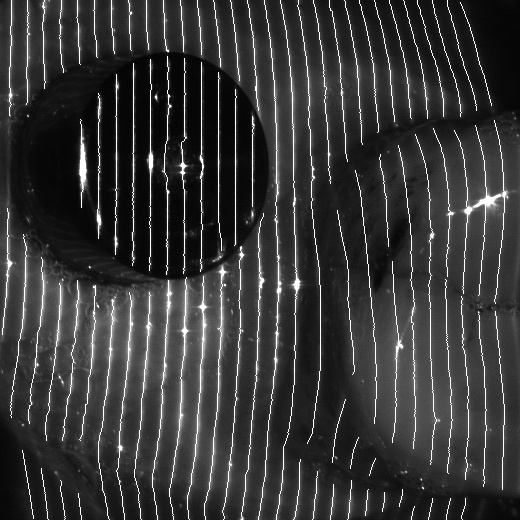
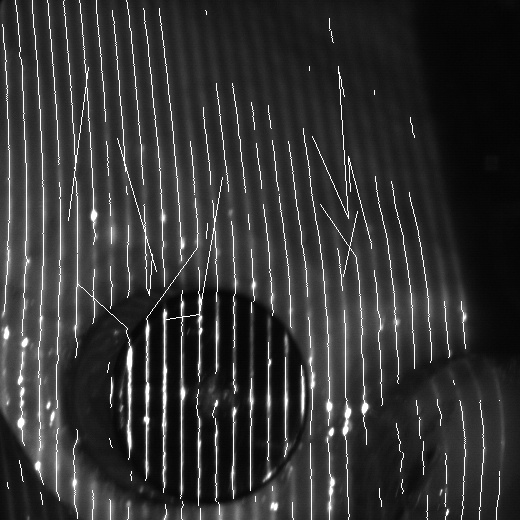
eraser without background

diff --git a/main.py b/main.py
@@ -28,6 +28,7 @@ class Annotator():
     def __init__(self) -> None:
         self.color = (255, 255, 255)  # White color
         self.thickness = 1  # Line thickness
+        self.show_background = True
 
         # List to store lines
         self.actions = []  # Store the actions (line/eraser)
@@ -267,15 +268,15 @@ if __name__=="__main__":
 
     def handle_eraser_mode(event, x, y, flags, param):
         global points, image, temp_image, annotation, annotation_backup, myAnn
-        if event == cv2.EVENT_MOUSEMOVE:
-            temp_image = image.copy()
-            # Show stride range
-            overlay = temp_image.copy()
-            # Draw a circle
-            cv2.circle(overlay, (x, y), stride, (0, 255, 255), -1)  # Drawing the circle on the overlay
-            # Alpha value controls the transparency level (between 0 and 1)
-            alpha = 0.4
-            cv2.addWeighted(overlay, alpha, temp_image, 1-alpha, 0, temp_image)
+        # if event == cv2.EVENT_MOUSEMOVE:
+        #     temp_image = image.copy()
+        #     # Show stride range
+        #     overlay = temp_image.copy()
+        #     # Draw a circle
+        #     cv2.circle(overlay, (x, y), stride, (0, 255, 255), -1)  # Drawing the circle on the overlay
+        #     # Alpha value controls the transparency level (between 0 and 1)
+        #     alpha = 0.4
+        #     cv2.addWeighted(overlay, alpha, temp_image, 1-alpha, 0, temp_image)
 
         if event == cv2.EVENT_LBUTTONDOWN:
             # Erasing by drawing a circle of the background color on annotation
@@ -286,8 +287,12 @@ if __name__=="__main__":
 
             cv2.circle(annotation, (x, y), radius=eraser_radius, color=(0, 0, 0), thickness=-1)
             # Redraw the whole image
-            image = cv2.addWeighted(image_backup, 1, annotation, 1, 0)
+            if myAnn.show_background:
+                image = cv2.addWeighted(image_backup, 1, annotation, 1, 0)
+            else: 
+                image = annotation
             cv2.imshow('image', image)
+
             ## Once the erase mode is used, ALL action stacks will be cleaned up.
             # TODO: I can't come up with a better idea...
             # Update annotation 
@@ -446,8 +451,7 @@ if __name__=="__main__":
     image = cv2.addWeighted(image, 1, annotation, 1, 0)
 
     # Show image with annotation, or annotation only.
-    show_background=True
-    image = background_toggler(image_backup, annotation, show_background)
+    image = background_toggler(image_backup, annotation, myAnn.show_background)
 
     # Create a window and bind the callback function to the window
     cv2.namedWindow('image')
@@ -493,7 +497,7 @@ if __name__=="__main__":
         # ====== Press 'e' to toggle erase mode ====== 
         elif k == ord('e'):
             myAnn.state.drawing_mode = "eraser"
-            hints = [f"Switched to {myAnn.state.drawing_mode} mode."]
+            hints = [f"Switched to limited eraser mode."]
             print_on_console(hints)
             # print_on_image(hints, image, myAnn) 
         # # ====== [Default] Press 'n' to toggle nearest dragging mode ======
@@ -520,7 +524,7 @@ if __name__=="__main__":
                 # Move the last line to undone list
                 myAnn.undone_actions.append(myAnn.actions.pop())  
                 # init 
-                image = image_backup.copy() if show_background else annotation_backup.copy()  # Restore the previous state
+                image = image_backup.copy() if myAnn.show_background else annotation_backup.copy()  # Restore the previous state
                 annotation = annotation_backup.copy() 
                 # Redo the remaining actions.
                 for action in myAnn.actions: 
@@ -594,7 +598,7 @@ if __name__=="__main__":
         # ====== Leave and Save ======
         elif k == ord('s'):  
             # Optional: Combine original and annotation images for visualization
-            combined_image = cv2.addWeighted(image, 1, annotation, 1, 0)
+            combined_image = cv2.addWeighted(image_backup, 1, annotation, 1, 0)
 
             # Save demo
             cv2.imwrite(os.path.join(demo_path, 'original_image.jpg'), image_backup)
@@ -631,8 +635,8 @@ if __name__=="__main__":
             print_on_console(message)        
         # ====== Toggle background ======
         elif k == ord('b'):
-            show_background = not show_background 
-            image = background_toggler(image_backup, annotation, show_background)
+            myAnn.show_background = not myAnn.show_background 
+            image = background_toggler(image_backup, annotation, myAnn.show_background)
             cv2.imshow('image', image)
         # ====== Load existinge annotation from save_path_annotation ======
         elif k == ord('.'):
